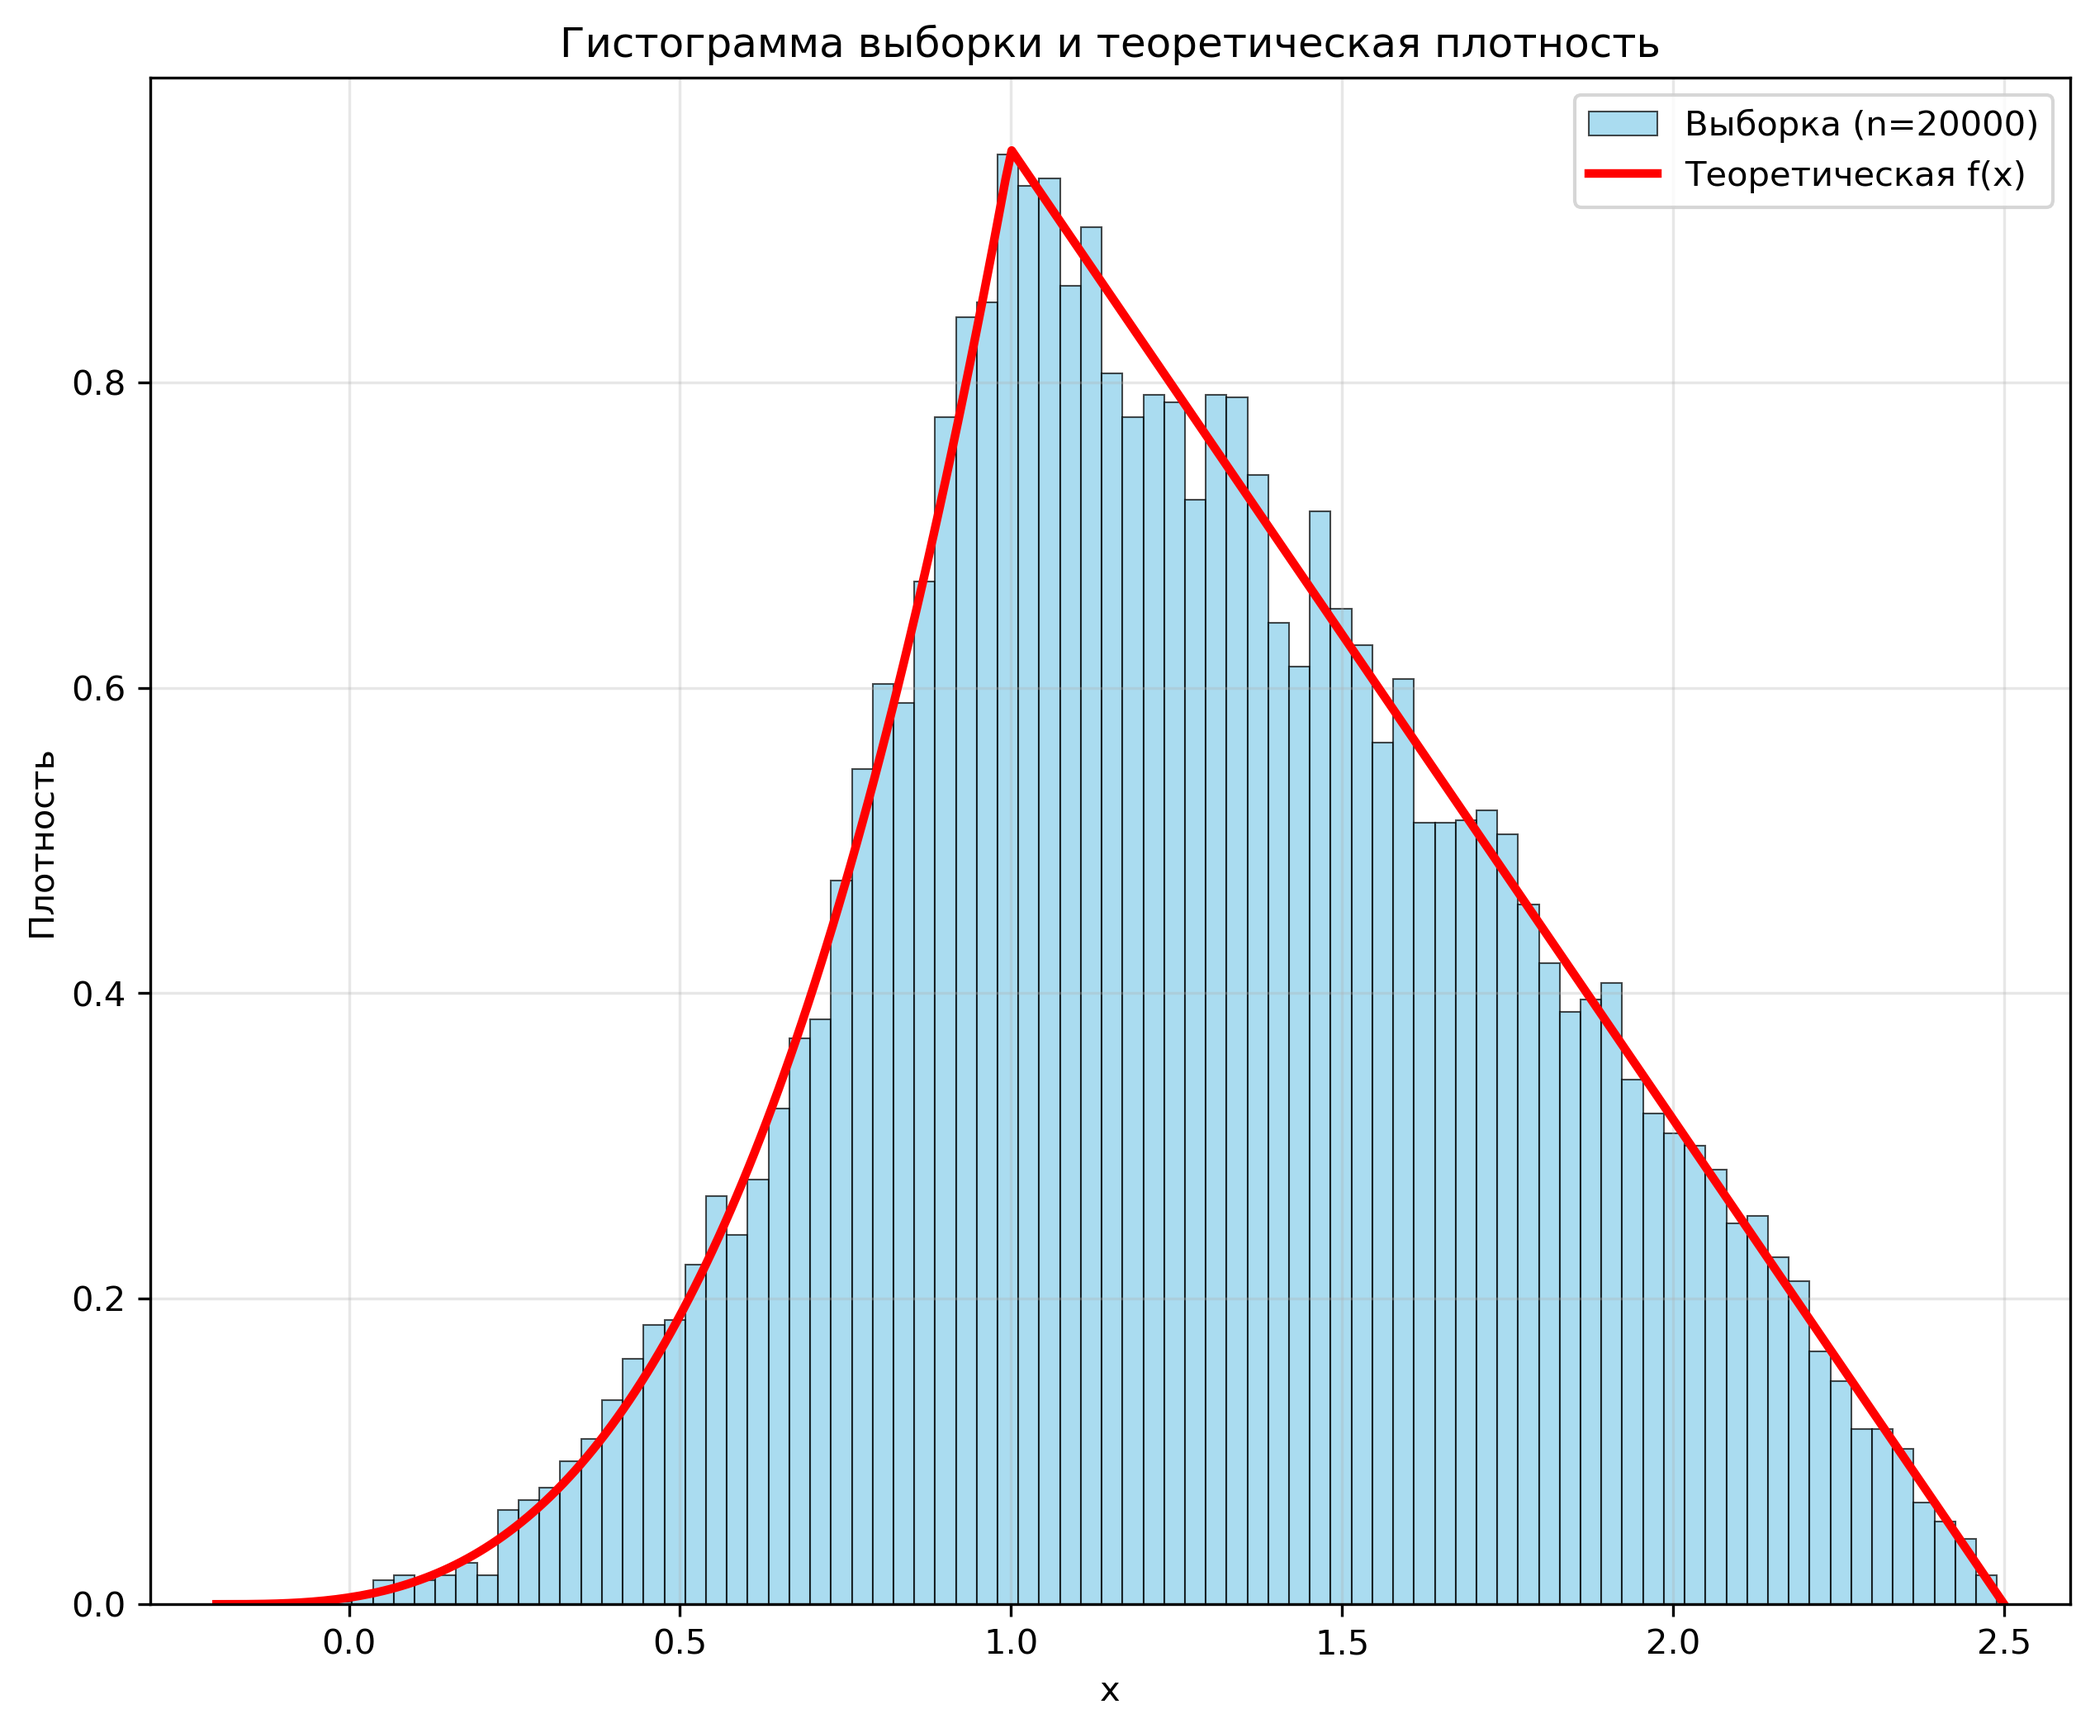
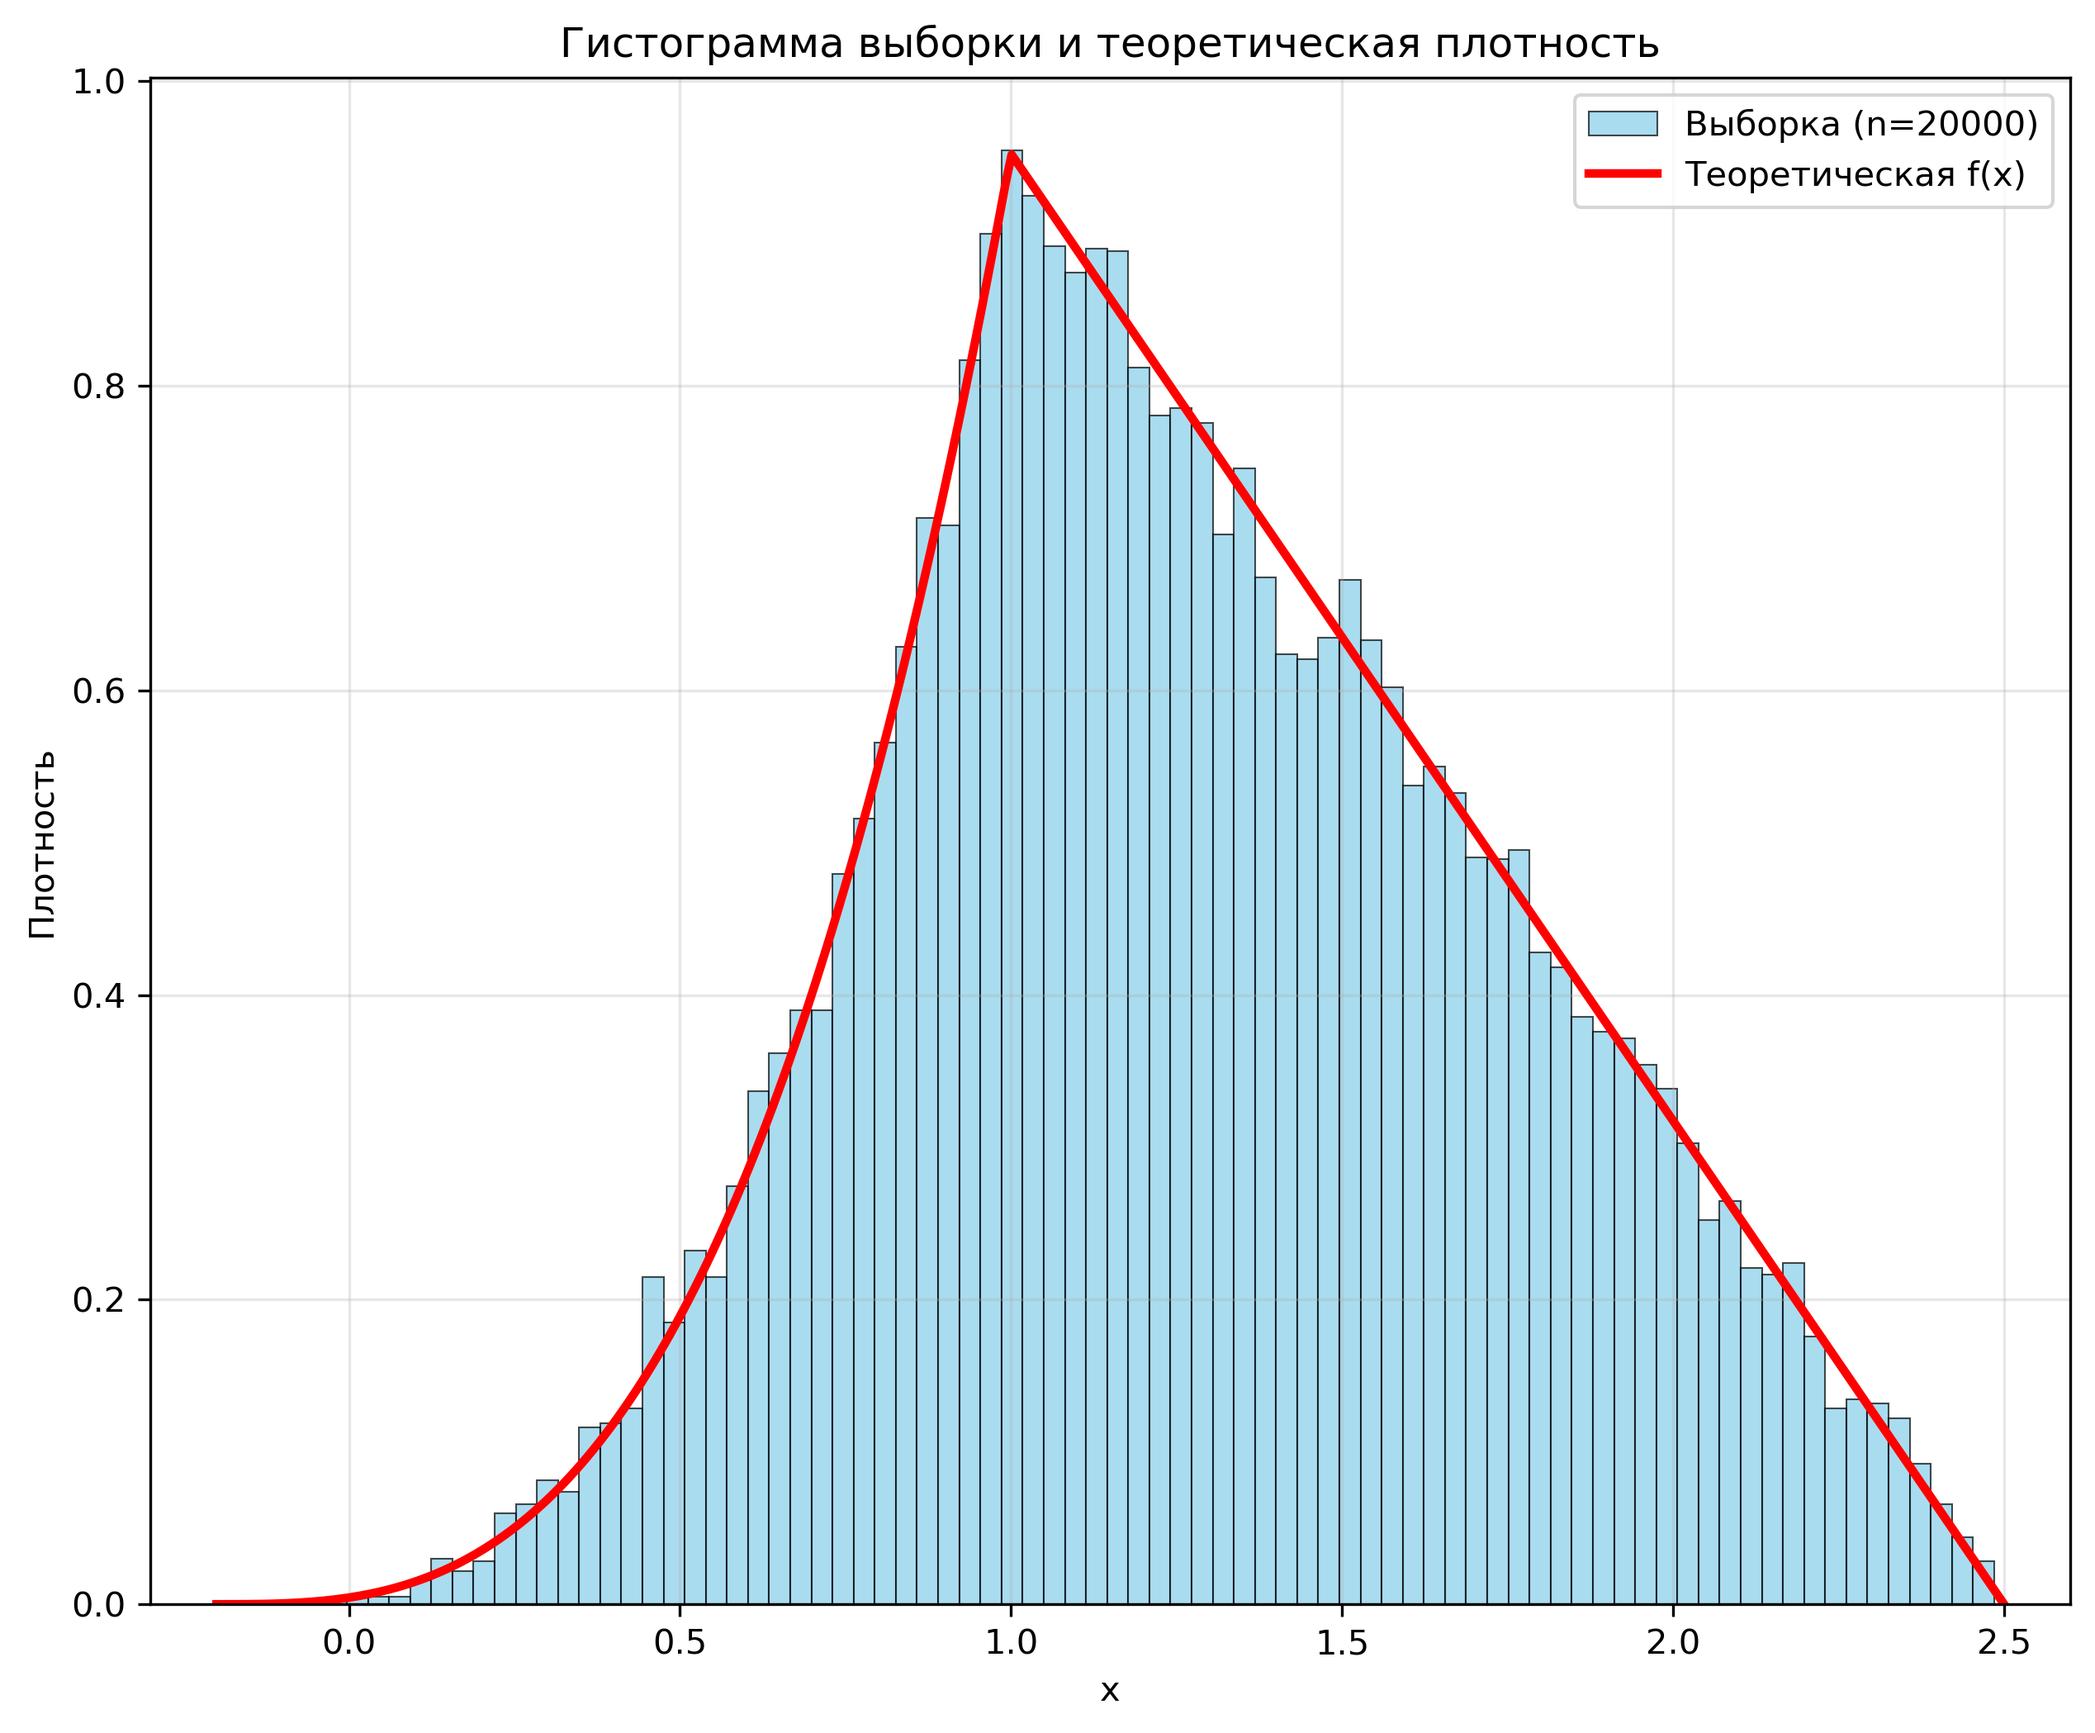
fix labs

Changed region(s): [[0.1868, 0.0929, 0.9653, 0.9295], [0.0311, 0.2169, 0.0623, 0.2479], [0.0311, 0.031, 0.0623, 0.062]]

diff --git a/lab1/2/main.py b/lab1/2/main.py
@@ -38,18 +38,9 @@ def F_inv(y):
         return -0.2
     elif y <= F1:
         # Первый участок: (a/4)*(x+0.2)^4 = y
-        # (x+0.2)^4 = 4y/a = 4y/(625/1134) = (4536/625)*y
         return ((4536 / 625) * y)**(1/4) - 0.2
     elif y <= 1.0:
         # Второй участок: (2/63)*(-10x^2 + 50x - 31) = y
-        # -10x^2 + 50x - 31 = (63/2)*y
-        # -10x^2 + 50x - 31 - (63/2)*y = 0
-        # Умножаем на -1: 10x^2 - 50x + 31 + (63/2)*y = 0
-        # Решаем квадратное уравнение: 10x^2 - 50x + (31 + 31.5*y) = 0
-        # Дискриминант: D = 2500 - 40*(31 + 31.5*y) = 2500 - 1240 - 1260*y = 1260 - 1260*y = 1260*(1-y)
-        # x = (50 - sqrt(1260*(1-y))) / 20 = (50 - sqrt(1260)*sqrt(1-y)) / 20
-        # sqrt(1260) = sqrt(36*35) = 6*sqrt(35)
-        # x = (50 - 6*sqrt(35)*sqrt(1-y)) / 20 = (25 - 3*sqrt(35*(1-y))) / 10
         return (25 - 3 * math.sqrt(35 * (1 - y))) / 10
     else:
         return 2.5
@@ -90,21 +81,20 @@ n_samples = 20000
 samples = generate_samples(n_samples)
 print(f"Сгенерировано {n_samples} значений")
 
-# --- Создание отдельных графиков с точками без фона ---
 
-# 1. График плотности вероятности с облаком точек (только точки, без фона)
+# 1. График плотности вероятности
 plt.figure(figsize=(10, 8))
 x_vals = linspace(-0.5, 3.0, 500)
 y_vals = f_pdf_vec(x_vals)
 plt.plot(x_vals, y_vals, 'b-', linewidth=2, label='Теоретическая f(x)')
 
-# Только точки, без заливки фона
+# Только точки
 n_scatter = min(3000, len(samples))
 scatter_indices = random.sample(range(len(samples)), n_scatter)
 scatter_x = [samples[i] for i in scatter_indices]
 scatter_y = [random.uniform(0, f_pdf(x)) for x in scatter_x]
 plt.scatter(scatter_x, scatter_y, color='darkblue', s=0.5, alpha=0.3, 
-            label='Точки датчика (облако)', rasterized=True)
+            label='Точки датчика', rasterized=True)
 
 plt.axvline(x=1.0, color='gray', linestyle='--', alpha=0.7, label='x=1')
 plt.axvline(x=2.5, color='gray', linestyle='--', alpha=0.7, label='x=2.5')
@@ -120,7 +110,7 @@ plt.savefig('plot_pdf_with_cloud.png', dpi=300, bbox_inches='tight',
 plt.close()
 print("Сохранен файл: plot_pdf_with_cloud.png")
 
-# 2. График функции распределения с эмпирической CDF
+# 2. График функции распределения
 plt.figure(figsize=(10, 8))
 x_vals = linspace(-0.5, 3.0, 500)
 y_vals = F_cdf_vec(x_vals)
@@ -164,9 +154,8 @@ plt.savefig('plot_inv.png', dpi=300, bbox_inches='tight',
 plt.close()
 print("Сохранен файл: plot_inv.png")
 
-# 4. Гистограмма выборки (ИСПРАВЛЕНО - теперь пик на месте)
+# 4. Гистограмма выборки
 plt.figure(figsize=(10, 8))
-# Увеличим количество бинов для лучшего отображения формы
 plt.hist(samples, bins=80, density=True, alpha=0.7, color='skyblue', 
          edgecolor='black', linewidth=0.5, label='Выборка (n={})'.format(n_samples))
 x_vals = linspace(-0.2, 2.5, 300)
@@ -177,13 +166,13 @@ plt.xlabel('x')
 plt.ylabel('Плотность')
 plt.legend()
 plt.grid(True, alpha=0.3)
-plt.xlim(-0.3, 2.6)  # Ограничим ось x для лучшего вида
+plt.xlim(-0.3, 2.6)  
 plt.savefig('plot_histogram.png', dpi=300, bbox_inches='tight',
             facecolor='white', edgecolor='none')
 plt.close()
 print("Сохранен файл: plot_histogram.png")
 
-# 5. Сводный график с точками без фона
+# 5. Сводный график
 fig = plt.figure(figsize=(16, 12))
 
 # 5.1 График плотности вероятности с облаком точек
@@ -203,7 +192,7 @@ ax1.scatter(scatter_x, scatter_y, color='darkblue', s=0.3, alpha=0.2,
 ax1.axvline(x=1.0, color='gray', linestyle='--', alpha=0.7, label='x=1')
 ax1.axvline(x=2.5, color='gray', linestyle='--', alpha=0.7, label='x=2.5')
 ax1.axhline(y=0, color='black', linewidth=0.5)
-ax1.set_title('Плотность вероятности с облаком точек')
+ax1.set_title('Плотность вероятности')
 ax1.set_xlabel('x')
 ax1.set_ylabel('f(x)')
 ax1.legend(fontsize=8, loc='upper right')
@@ -245,7 +234,7 @@ ax3.set_ylabel('x = F^{-1}(y)')
 ax3.legend(fontsize=8)
 ax3.grid(True, alpha=0.3)
 
-# 5.4 Гистограмма выборки (ИСПРАВЛЕНО)
+# 5.4 Гистограмма выборки 
 ax4 = plt.subplot(2, 2, 4)
 ax4.hist(samples, bins=80, density=True, alpha=0.7, color='skyblue', 
          edgecolor='black', linewidth=0.5, label='Выборка')
@@ -282,7 +271,6 @@ def min_val(arr):
 def max_val(arr):
     return max(arr)
 
-# Вывод информации в консоль
 print("\n" + "="*60)
 print("РЕЗУЛЬТАТЫ РАСЧЕТОВ")
 print("="*60)
@@ -314,7 +302,7 @@ print(f"Участок 2 (1.0 < x ≤ 2.5): {count_2} значений ({count_2
 print(f"Теоретическое F(1) = {F1*100:.1f}%")
 
 print("\nВсе графики сохранены в текущую директорию:")
-print("  - plot_pdf_with_cloud.png (плотность + облако точек)")
+print("  - plot_pdf_with_cloud.png (плотность)")
 print("  - plot_cdf_with_empirical.png (CDF + эмпирическая CDF)")
 print("  - plot_inv.png (обратная функция)")
 print("  - plot_histogram.png (гистограмма)")

diff --git a/lab2/main2.py b/lab2/main2.py
@@ -74,30 +74,54 @@ def calculate_network_parameters(works):
                   f"IH = {work['io']} - {work['duration']} = {work['iih']}")
     
     # Распространяем поздние сроки обратно
+    # changed = True
+    # while changed:
+    #     changed = False
+    #     for work in works:
+    #         if followers[work['code']] and work['io'] == 0:
+    #             min_iih = float('inf')
+    #             all_followers_found = True
+                
+    #             for fol_code in followers[work['code']]:
+    #                 fol = works_dict.get(fol_code)
+    #                 if fol and fol['iih'] > 0:
+    #                     min_iih = min(min_iih, fol['iih'])
+    #                 elif fol:
+    #                     all_followers_found = False
+    #                     break
+                
+    #             if all_followers_found and min_iih != float('inf'):
+    #                 work['io'] = min_iih
+    #                 work['iih'] = work['io'] - work['duration']
+    #                 print(f"{work['code']}: IO = min({', '.join(followers[work['code']])}) = {work['io']}, "
+    #                       f"IH = {work['io']} - {work['duration']} = {work['iih']}")
+    #                 changed = True
+    # Распространяем поздние сроки обратно
     changed = True
     while changed:
         changed = False
         for work in works:
-            if followers[work['code']] and work['io'] == 0:
+            if followers[work['code']]:  # у работы есть последователи
                 min_iih = float('inf')
                 all_followers_found = True
-                
                 for fol_code in followers[work['code']]:
                     fol = works_dict.get(fol_code)
-                    if fol and fol['iih'] > 0:
+                    if fol and fol['iih'] > 0:  # у последователя уже есть IH
                         min_iih = min(min_iih, fol['iih'])
                     elif fol:
                         all_followers_found = False
                         break
-                
                 if all_followers_found and min_iih != float('inf'):
-                    work['io'] = min_iih
-                    work['iih'] = work['io'] - work['duration']
-                    print(f"{work['code']}: IO = min({', '.join(followers[work['code']])}) = {work['io']}, "
-                          f"IH = {work['io']} - {work['duration']} = {work['iih']}")
-                    changed = True
-    
-    print("\nРАСЧЁТ РЕЗЕРВОВ:")
+                    # ВАЖНО: пересчитываем, даже если уже было значение
+                    new_io = min_iih
+                    new_iih = new_io - work['duration']
+                    # Если значение изменилось, обновляем и помечаем changed
+                    if new_io != work['io']:
+                        work['io'] = new_io
+                        work['iih'] = new_iih
+                        changed = True
+                        print(f"{work['code']}: IO = min({', '.join(followers[work['code']])}) = {work['io']}, IH = {work['iih']}")
+        print("\nРАСЧЁТ РЕЗЕРВОВ:")
     
     for work in works:
         # Полный резерв
